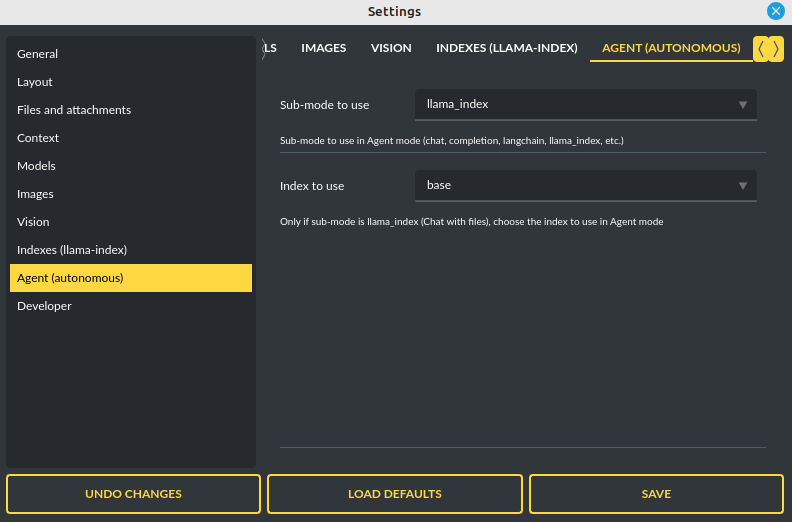
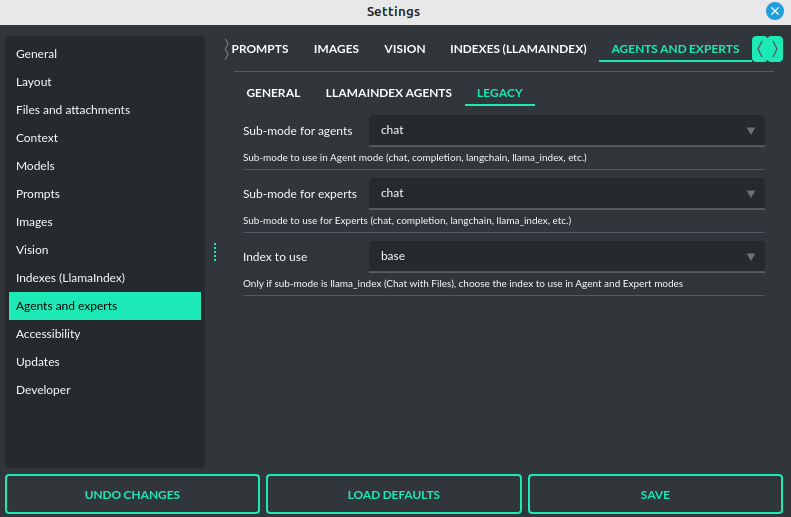
Updated documentation

diff --git a/README.md b/README.md
@@ -2,7 +2,7 @@
 
 [![pygpt](https://snapcraft.io/pygpt/badge.svg)](https://snapcraft.io/pygpt)
 
-Release: **2.4.35** | build: **2024.11.28** | Python: **>=3.10, <3.12**
+Release: **2.4.36** | build: **2024.11.28** | Python: **>=3.10, <3.12**
 
 > Official website: https://pygpt.net | Documentation: https://pygpt.readthedocs.io
 > 
@@ -24,13 +24,13 @@ For audio interactions, **PyGPT** includes speech synthesis using the `Microsoft
 
 Multiple operation modes are included, such as chat, text completion, assistant, vision, LangChain, Chat with Files (via `LlamaIndex`), commands execution, external API calls and image generation, making **PyGPT** a multi-tool for many AI-driven tasks.
 
-**Video** (mp4, version `2.2.35`, build `2024-11-28`):
+**Video** (mp4, version `2.4.35`, build `2024-11-28`):
 
 https://github.com/user-attachments/assets/5751a003-950f-40e7-a655-d098bbf27b0c
 
-**Screenshot** (version `2.2.35`, build `2024-11-28`):
+**Screenshot** (version `2.4.35`, build `2024-11-28`):
 
-![v2_main](https://github.com/user-attachments/assets/29f1a595-006c-4e2c-b665-f626368ca330)
+![v2_main](https://github.com/user-attachments/assets/b4d1b804-a772-4612-8da5-ff44412310f0)
 
 You can download compiled 64-bit versions for Windows and Linux here: https://pygpt.net/#download
 
@@ -129,7 +129,7 @@ $ sudo snap connect pygpt:docker-executables docker:docker-executables
 ```
 
 ````commandline
-sudo snap connect pygpt:docker docker:docker-daemon
+$ sudo snap connect pygpt:docker docker:docker-daemon
 ````
 
 ## PyPi (pip)
@@ -358,11 +358,11 @@ The main part of the interface is a chat window where you see your conversations
 
 Above where you type your messages, the interface shows you the number of tokens your message will use up as you type it – this helps to keep track of usage. There is also a feature to attach and upload files in this area. Go to the `Files and Attachments` section for more information on how to use attachments.
 
-![v2_mode_chat](https://github.com/user-attachments/assets/719854af-c28c-4329-a4c4-8622038ba53b)
+![v2_mode_chat](https://github.com/user-attachments/assets/ed9a0290-1dcc-42e7-9585-078ad06f2e28)
 
 **Vision:** If you want to send photos from your disk or images from your camera for analysis, and the selected model does not support Vision, you must enable the `GPT-4 Vision (inline)` plugin in the Plugins menu. This plugin allows you to send photos or images from your camera for analysis in any Chat mode.
 
-![v3_vision_plugins](https://github.com/szczyglis-dev/py-gpt/assets/61396542/104b0a80-7cf8-4a02-aa74-27e89ad2e409)
+![v3_vision_plugins](https://github.com/user-attachments/assets/7d16f5f3-71b0-4c87-8f52-77b42ac9ded8)
 
 With this plugin, you can capture an image with your camera or attach an image and send it for analysis to discuss the photograph:
 
@@ -371,7 +371,7 @@ With this plugin, you can capture an image with your camera or attach an image a
 **Image generation:** If you want to generate images (using DALL-E) directly in chat you must enable plugin `DALL-E 3 (inline)` in the Plugins menu.
 Plugin allows you to generate images in Chat mode:
 
-![v3_img_chat](https://github.com/szczyglis-dev/py-gpt/assets/61396542/c288a4b3-c932-4201-b5a3-8452aea49817)
+![v3_img_chat](https://github.com/user-attachments/assets/1af65452-1ed1-43ec-8d78-21b0e61f0ec3)
 
 
 ## Chat with Audio
@@ -404,12 +404,14 @@ From version `2.0.107` the `davinci` models are deprecated and has been replaced
 The older model version, `DALL-E 2`, is also accessible. Generating images is akin to a chat conversation  -  a user's prompt triggers the generation, followed by downloading, saving to the computer, 
 and displaying the image onscreen. You can send raw prompt to `DALL-E` in `Image generation` mode or ask the model for the best prompt.
 
+![v3_img](https://github.com/user-attachments/assets/d7521cd1-3162-4425-89df-f7a43881574f)
+
 Image generation using DALL-E is available in every mode via plugin `DALL-E 3 Image Generation (inline)`. Just ask any model, in any mode, like e.g. GPT-4 to generate an image and it will do it inline, without need to mode change.
 
 If you want to generate images (using DALL-E) directly in chat you must enable plugin **DALL-E 3 Inline** in the Plugins menu.
 Plugin allows you to generate images in Chat mode:
 
-![v3_img_chat](https://github.com/szczyglis-dev/py-gpt/assets/61396542/c288a4b3-c932-4201-b5a3-8452aea49817)
+![v3_img_chat](https://github.com/user-attachments/assets/1af65452-1ed1-43ec-8d78-21b0e61f0ec3)
 
 ### Multiple variants
 
@@ -448,15 +450,13 @@ images and those found online.
 
 Vision is also integrated into any chat mode via plugin `GPT-4 Vision (inline)`. Just enable the plugin and use Vision in other work modes, such as Chat or Chat with Files.
 
-Vision mode also includes real-time video capture from camera. To enable capture check the option `Camera` on the right-bottom corner. It will enable real-time capturing from your camera. To capture image from camera and append it to chat just click on video at left side. You can also enable `Auto capture` - image will be captured and appended to chat message every time you send message.
-
-![v2_capture_enable](https://github.com/szczyglis-dev/py-gpt/assets/61396542/c40ce0b4-57c8-4643-9982-25d15e68377e)
+Vision mode also includes real-time video capture from camera. To capture image from camera and append it to chat just click on video at left side. You can also enable `Auto capture` - image will be captured and appended to chat message every time you send message.
 
 **1) Video camera real-time image capture**
 
 ![v2_capture1](https://github.com/szczyglis-dev/py-gpt/assets/61396542/477bb7fa-4639-42bb-8466-937e88e4a835)
 
-![v3_vision_chat](https://github.com/szczyglis-dev/py-gpt/assets/61396542/3fbd99e2-5bbf-4bd4-81d8-fd4d7db9d8eb)
+![v3_vision_chat](https://github.com/user-attachments/assets/928d1aed-2689-44e1-b32a-68f02f83fb55)
 
 **2) you can also provide an image URL**
 
@@ -476,7 +476,7 @@ This mode expands on the basic chat functionality by including additional extern
 
 Setting up new assistants is simple - a single click is all it takes, and they instantly sync with the `OpenAI API`. Importing assistants you've previously created with OpenAI into **PyGPT** is also a seamless process.
 
-![v2_mode_assistant](https://github.com/szczyglis-dev/py-gpt/assets/61396542/5c3b5604-928d-4f29-940a-21cc83c8dc34)
+![v2_mode_assistant](https://github.com/user-attachments/assets/726d31f8-9120-47af-9811-269c1178f506)
 
 In Assistant mode you are allowed to storage your files in remote vector store (per Assistant) and manage them easily from app:
 
@@ -679,8 +679,6 @@ The mode activates autonomous mode, where AI begins a conversation with itself.
 You can set this loop to run for any number of iterations. Throughout this sequence, the model will engage
 in self-dialogue, answering his own questions and comments, in order to find the best possible solution, subjecting previously generated steps to criticism.
 
-![v2_agent_toolbox](https://github.com/szczyglis-dev/py-gpt/assets/61396542/a0ae5d13-942e-4a18-9c53-33e7ad1886ff)
-
 **WARNING:** Setting the number of run steps (iterations) to `0` activates an infinite loop which can generate a large number of requests and cause very high token consumption, so use this option with caution! Confirmation will be displayed every time you run the infinite loop.
 
 This mode is similar to `Auto-GPT` - it can be used to create more advanced inferences and to solve problems by breaking them down into subtasks that the model will autonomously perform one after another until the goal is achieved.
@@ -706,9 +704,9 @@ Default is: `chat`.
 
 If you want to use the LlamaIndex mode when running the agent, you can also specify which index `LlamaIndex` should use with the option:
 
-```Settings / Agent (autonomous) / Index to use```
+```Settings / Agents and experts / Index to use```
 
-![v2_agent_settings](https://github.com/szczyglis-dev/py-gpt/assets/61396542/c577d219-eb25-4f0e-9ea5-adf20a6b6b81)
+![v2_agent_settings](https://github.com/user-attachments/assets/5e4658dc-4488-415b-8be4-51bb5b45d0bd)
 
 
 ##  Experts (co-op, co-operation mode)
@@ -752,7 +750,7 @@ Give me a list of active experts.
 
 On the left side of the application interface, there is a panel that displays a list of saved conversations. You can save numerous contexts and switch between them with ease. This feature allows you to revisit and continue from any point in a previous conversation. **PyGPT** automatically generates a summary for each context, akin to the way `ChatGPT` operates and gives you the option to modify these titles itself.
 
-![v2_context_list](https://github.com/szczyglis-dev/py-gpt/assets/61396542/9228ea4c-f30c-4b02-ba85-da10b4e2eb7b)
+![v2_context_list](https://github.com/user-attachments/assets/75d1eb9d-da85-422b-8b54-d5f3e95ba059)
 
 You can disable context support in the settings by using the following option:
 
@@ -845,7 +843,7 @@ The `Files I/O` plugin takes care of file operations in the `data` directory, wh
 
 To allow the model to manage files or python code execution, the `+ Tools` option must be active, along with the above-mentioned plugins:
 
-![v2_code_execute](https://github.com/szczyglis-dev/py-gpt/assets/61396542/d5181eeb-6ab4-426f-93f0-037d256cb078)
+![v2_code_execute](https://github.com/user-attachments/assets/0b96b362-52ca-4928-9675-a39038d787a1)
 
 # Presets
 
@@ -855,7 +853,7 @@ Presets in **PyGPT** are essentially templates used to store and quickly apply d
 
 The application lets you create as many presets as needed and easily switch among them. Additionally, you can clone an existing preset, which is useful for creating variations based on previously set configurations and experimentation.
 
-![v2_preset](https://github.com/user-attachments/assets/b6a4a2c0-3944-4201-8674-05e86cc8a326)
+![v2_preset](https://github.com/user-attachments/assets/15d142c7-6669-4e0a-9a21-e57555a4cb83)
 
 ## Example usage
 
@@ -1221,7 +1219,7 @@ Options reference: https://pypi.org/project/SpeechRecognition/1.3.1/
 The plugin lets you turn text into speech using the TTS model from OpenAI or other services like ``Microsoft Azure``, ``Google``, and ``Eleven Labs``. You can add more text-to-speech providers to it too. `OpenAI TTS` does not require any additional API keys or extra configuration; it utilizes the main OpenAI key. 
 Microsoft Azure requires to have an Azure API Key. Before using speech synthesis via `Microsoft Azure`, `Google` or `Eleven Labs`, you must configure the audio plugin with your API keys, regions and voices if required.
 
-![v2_azure](https://github.com/szczyglis-dev/py-gpt/assets/61396542/8035e9a5-5a01-44a1-85da-6e44c52459e4)
+![v2_azure](https://github.com/user-attachments/assets/475108c1-5ea8-4f43-8cd5-effcd5ef352c)
 
 Through the available options, you can select the voice that you want the model to use. More voice synthesis providers coming soon.
 
@@ -1621,7 +1619,7 @@ Docker image to use for sandbox *Default:* `python:3.8-alpine`
 
 With the `Custom Commands` plugin, you can integrate **PyGPT** with your operating system and scripts or applications. You can define an unlimited number of custom commands and instruct GPT on when and how to execute them. Configuration is straightforward, and **PyGPT** includes a simple tutorial command for testing and learning how it works:
 
-![v2_custom_cmd](https://github.com/szczyglis-dev/py-gpt/assets/61396542/b30b8724-9ca1-44b1-abc7-78241588e1f6)
+![v2_custom_cmd](https://github.com/user-attachments/assets/e1d803e8-9452-4507-a9a6-7a43b83b897d)
 
 To add a new custom command, click the **ADD** button and then:
 
@@ -1946,7 +1944,7 @@ Then, copy the following two items into **PyGPT**:
 
 These data must be configured in the appropriate fields in the `Plugins / Settings...` menu:
 
-![v2_plugin_google](https://github.com/szczyglis-dev/py-gpt/assets/61396542/f2e0df62-caaa-40ef-9b1e-239b2f912ec8)
+![v2_plugin_google](https://github.com/user-attachments/assets/6a9ed44d-7a1e-45f7-a9c9-afd2b66baccc)
 
 - `Google Custom Search API KEY` *google_api_key*
 
@@ -2343,7 +2341,7 @@ It is a JSON object wrapped between `~###~`. The application extracts the JSON o
 
 **Tip:** The `+ Tools` option checkbox must be enabled to allow the execution of commands from plugins. Disable the option if you do not want to use commands, to prevent additional token usage (as the command execution system prompt consumes additional tokens).
 
-![v2_code_execute](https://github.com/szczyglis-dev/py-gpt/assets/61396542/d5181eeb-6ab4-426f-93f0-037d256cb078)
+![v2_code_execute](https://github.com/user-attachments/assets/0b96b362-52ca-4928-9675-a39038d787a1)
 
 When native API function calls are disabled, a special system prompt responsible for invoking commands is added to the main system prompt if the `+ Tools` option is active.
 
@@ -2434,7 +2432,7 @@ PyGPT features several useful tools, including:
 - Python Code Interpreter
 - HTML/JS Canvas (built-in HTML renderer)
 
-![v2_tool_menu](https://github.com/szczyglis-dev/py-gpt/assets/61396542/fb3f44af-f0de-4e18-bcac-e20389a651c9)
+![v2_tool_menu](https://github.com/user-attachments/assets/c8041cdc-64fd-41a5-b1af-8c987b06e5f0)
 
 
 ## Notepad
@@ -2512,13 +2510,13 @@ the system prompt, any additional data, and those used within the context (the m
 
 **Remember that these are only approximate calculations and do not include, for example, the number of tokens consumed by some plugins. You can find the exact number of tokens used on the OpenAI website.**
 
-![v2_tokens1](https://github.com/szczyglis-dev/py-gpt/assets/61396542/29b610be-9e96-41cc-84f0-1b946886f801)
+![v2_tokens1](https://github.com/user-attachments/assets/e131a880-986d-4014-b5fd-9820516c6a10)
 
 ## Total tokens
 
 After receiving a response from the model, the application displays the actual total number of tokens used for the query (received from the API).
 
-![v2_tokens2](https://github.com/szczyglis-dev/py-gpt/assets/61396542/c81e95b5-7c33-41a6-8910-21d674db37e5)
+![v2_tokens2](https://github.com/user-attachments/assets/52cd355f-c7b0-432b-9ff9-31c8a6a60b89)
 
 
 # Accessibility
@@ -2656,7 +2654,7 @@ The following basic options can be modified directly within the application:
 Config -> Settings...
 ```
 
-![v2_settings](https://github.com/szczyglis-dev/py-gpt/assets/61396542/43622c58-6cdb-4ed8-b47d-47729763db04)
+![v2_settings](https://github.com/user-attachments/assets/003b0f86-8225-4478-8525-fb9324ac5c88)
 
 **General**
 
@@ -3866,6 +3864,7 @@ may consume additional tokens that are not displayed in the main window.
 **2.4.36 (2024-11-28)**
 
 - Added a new command-line argument: --workdir="/path/to/workdir" to explicitly set the current working directory.
+- Fix: start image generation in Image mode.
 
 **2.4.35 (2024-11-28)**
 

diff --git a/docs/source/modes.rst b/docs/source/modes.rst
@@ -60,6 +60,9 @@ Image generation (DALL-E)
 **PyGPT** enables quick and easy image creation with ``DALL-E 3``. 
 The older model version, ``DALL-E 2``, is also accessible. Generating images is akin to a chat conversation  - a user's prompt triggers the generation, followed by downloading, saving to the computer, and displaying the image onscreen. You can send raw prompt to ``DALL-E`` in ``Image generation`` mode or ask the model for the best prompt.
 
+.. image:: images/v3_img.png
+   :width: 800
+
 Image generation using DALL-E is available in every mode via plugin "DALL-E 3 Image Generation (inline)". Just ask any model, in any mode, like e.g. GPT-4 to generate an image and it will do it inline, without need to mode change.
 
 .. image:: images/v3_img_chat.png
@@ -105,10 +108,7 @@ images and those found online.
 
 Vision is also integrated into any chat mode via plugin ``GPT-4 Vision (inline)``. Just enable the plugin and use Vision in other work modes, such as Chat or Chat with Files.
 
-Vision mode also includes real-time video capture from camera. To enable capture check the option ``Camera`` on the right-bottom corner. It will enable real-time capturing from your camera. To capture image from camera and append it to chat just click on video at left side. You can also enable ``Auto capture`` - image will be captured and appended to chat message every time you send message.
-
-.. image:: images/v2_capture_enable.png
-   :width: 400
+Vision mode also includes real-time video capture from camera. To capture image from camera and append it to chat just click on video at left side. You can also enable ``Auto capture`` - image will be captured and appended to chat message every time you send message.
 
 **1) Video camera real-time image capture:**
 
@@ -342,9 +342,6 @@ This is an older version of the Agent mode, still available as legacy. However, 
 The mode activates autonomous mode, where AI begins a conversation with itself. 
 You can set this loop to run for any number of iterations. Throughout this sequence, the model will engage
 in self-dialogue, answering his own questions and comments, in order to find the best possible solution, subjecting previously generated steps to criticism.
-
-.. image:: images/v2_agent_toolbox.png
-   :width: 400
 
 **WARNING:** Setting the number of run steps (iterations) to ``0`` activates an infinite loop which can generate a large number of requests 
 and cause very high token consumption, so use this option with caution! Confirmation will be displayed every time you run the infinite loop.

diff --git a/CHANGELOG.md b/CHANGELOG.md
@@ -3,6 +3,7 @@
 ## 2.4.36 (2024-11-28)
 
 - Added a new command-line argument: --workdir="/path/to/workdir" to explicitly set the current working directory.
+- Fix: start image generation in Image mode.
 
 ## 2.4.35 (2024-11-28)
 
